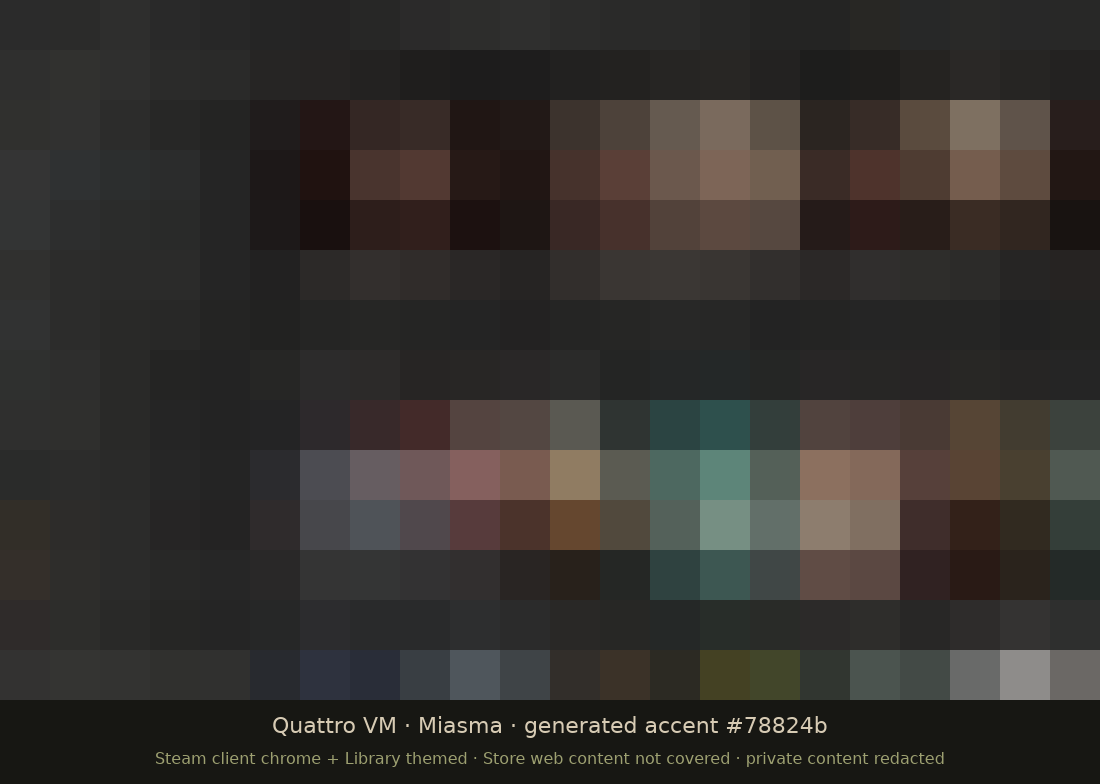
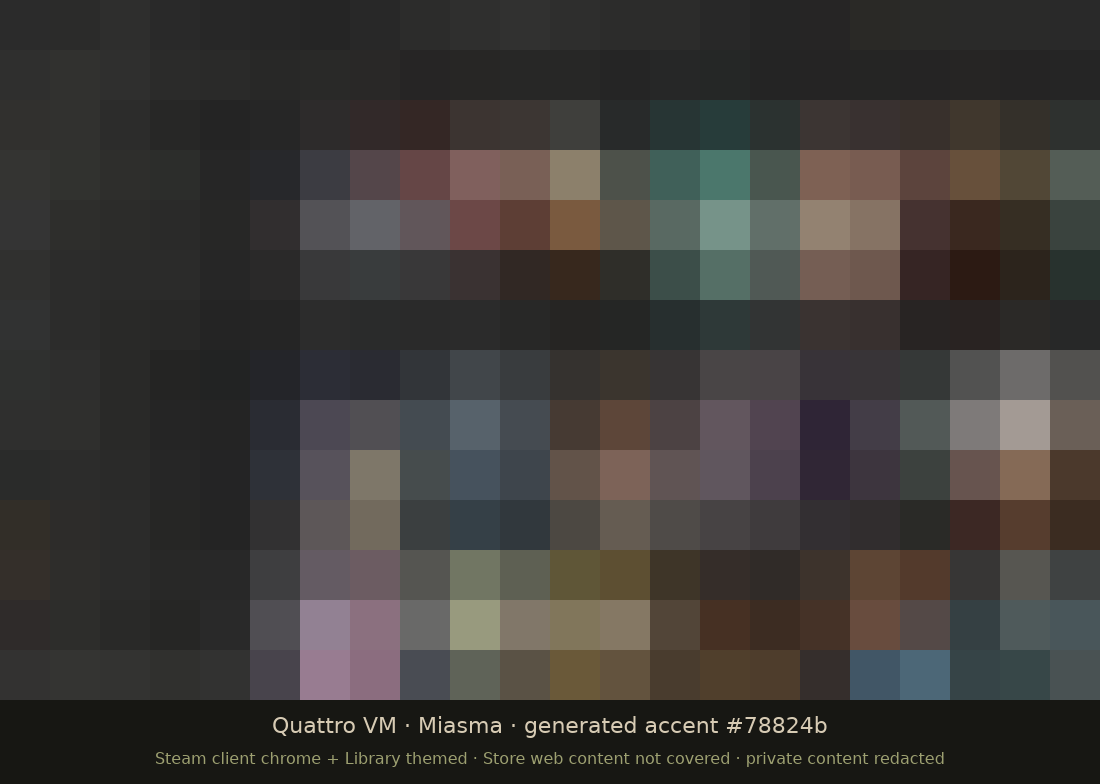
Replace Steam evidence after verified reload

diff --git a/docs/evidence/theme-fallbacks-2026-08-27/README.md b/docs/evidence/theme-fallbacks-2026-08-27/README.md
@@ -4,6 +4,6 @@ These screenshots were captured from the `omarchy-quattro` integration VM with t
 
 - `nautilus-miasma.png`: Nautilus opened on a controlled `/tmp` directory containing one synthetic `README.txt`. No personal files or home path are shown.
 - `cliamp-miasma.png`: CLIamp launched with a temporary isolated HOME containing only THPM's generated `omarchy.toml`; visible stations are CLIamp's public built-in radio fixture.
-- `steam-miasma-redacted.png`: exact live Steam Library capture after THPM deployment, irreversibly blurred and reduced to 50-pixel blocks. Account, library titles, cover art, activity, and notifications are not recoverable. The caption states the proven scope: client chrome and Library; Store web content is not covered.
+- `steam-miasma-redacted.png`: exact live Steam Library capture after reapplying installed `thpm 1.0.0rc22-101`, verifying generated/deployed CSS SHA equality, Adwaita 4.4 light/dark `#78824b` variables, the selected `omarchy.css` import, and all three patched bundle markers, then fully restarting Steam. The capture is irreversibly blurred and reduced to 50-pixel blocks. Account, library titles, cover art, activity, and notifications are not recoverable. The caption states the proven scope: client chrome and Library; Store web content is not covered.
 
 Each publication artifact was visually inspected after processing. Raw Steam captures were treated as private and were not committed.
